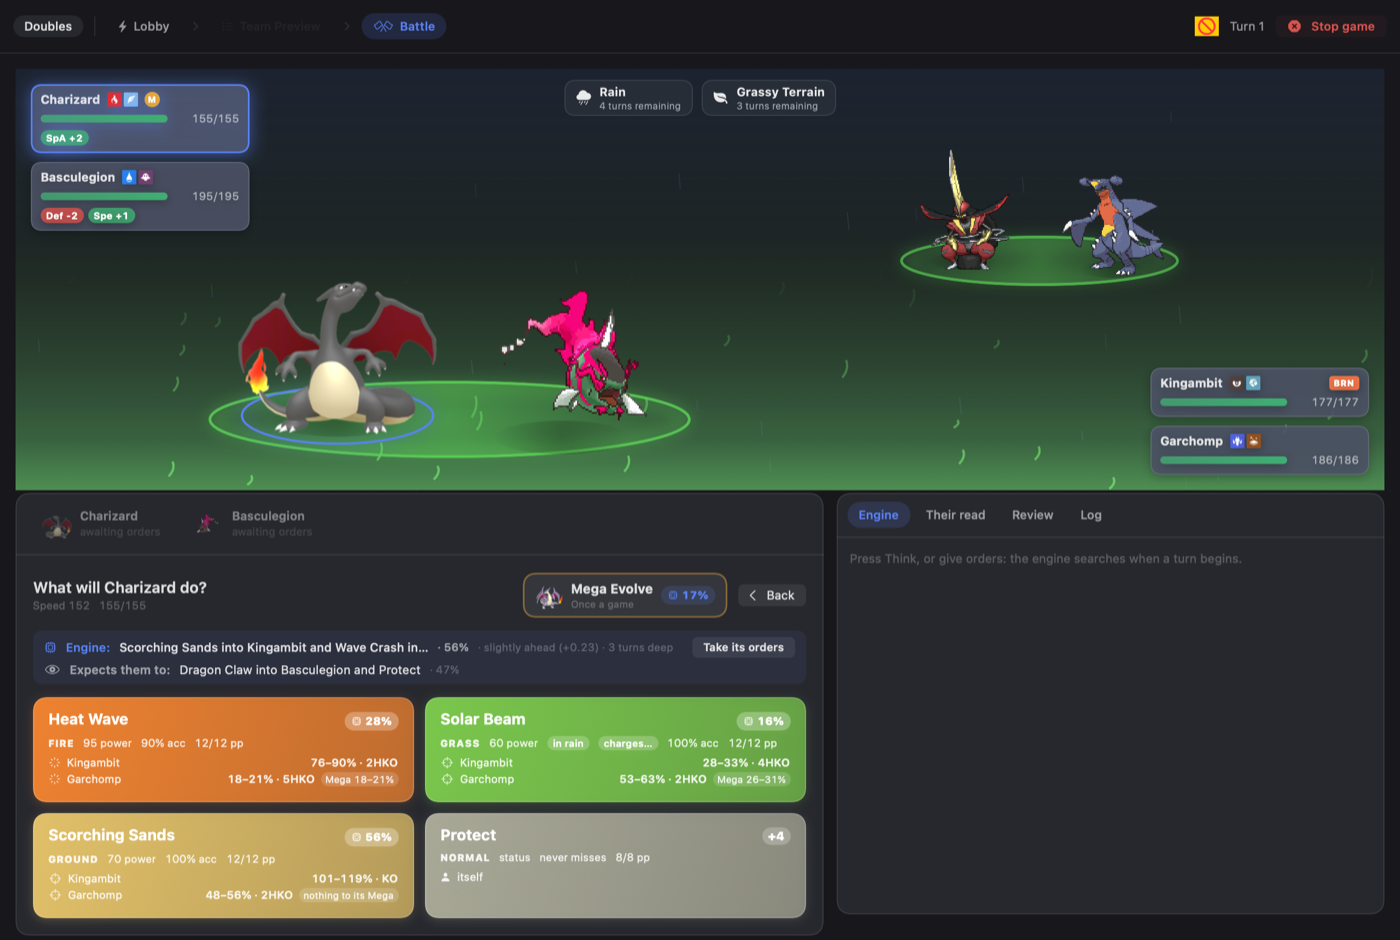
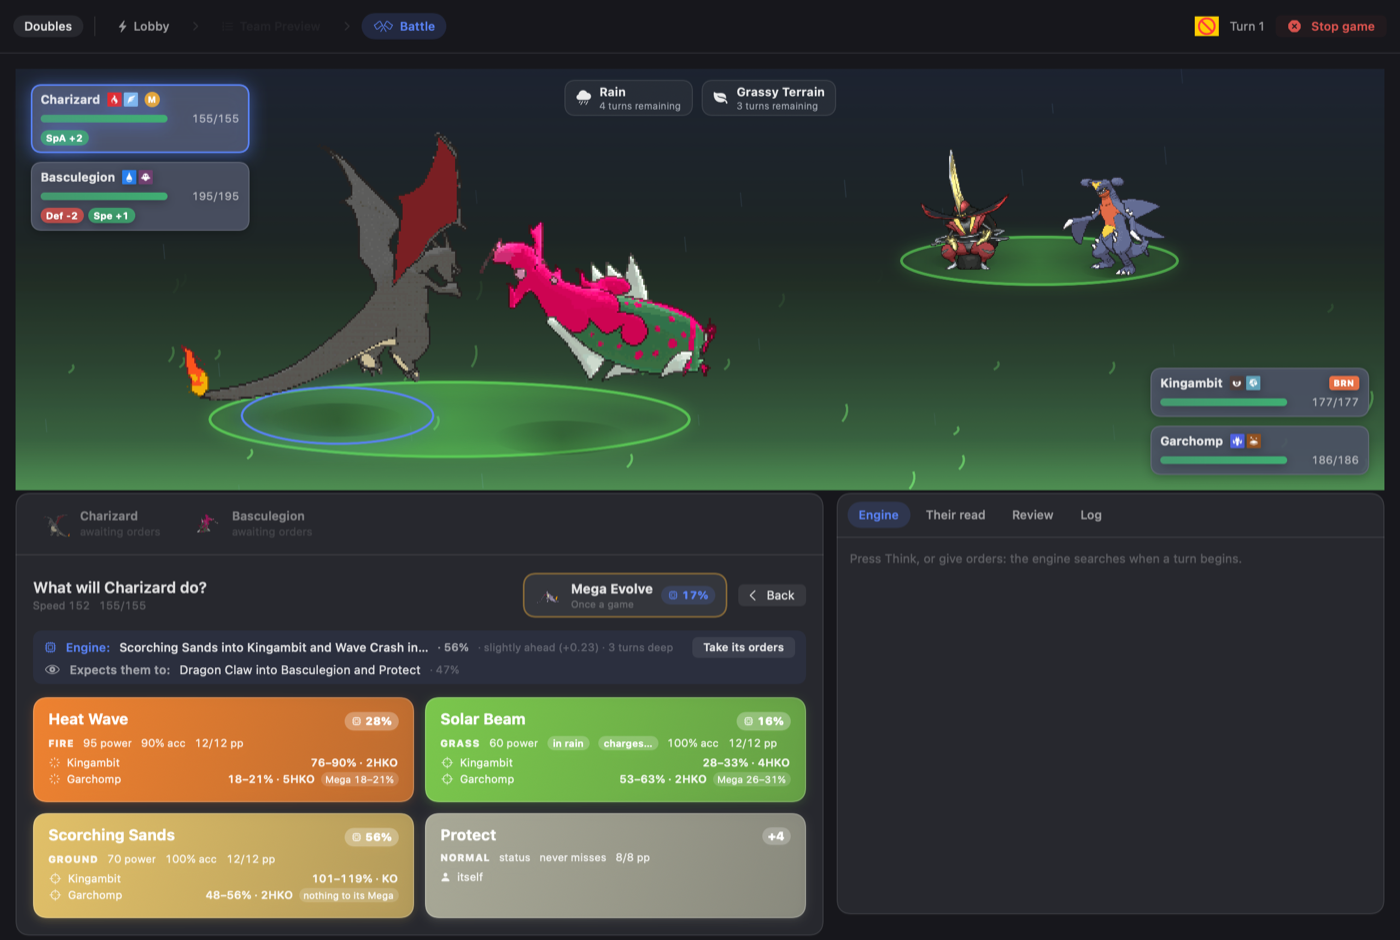
The Pokemon that faced the wrong way was the one nobody fetched
It was never a facing bug. A Pokemon of ours is drawn from its back
sprite, and where that sprite is not in memory the field falls back to
the app's own render -- which is a front view, mirrored so it faces the
opponent. That is what a Pokemon facing the wrong way is: the fallback,
seen without knowing it was one. The same picture is also why it was
still high-resolution art.

So why was it not in memory. Three reasons, found by printing what the
field asked for and what it got.

A shot renders once. `ImageRenderer` evaluates the view and keeps
whatever was there at that instant; there is no second pass when a fetch
lands, which is the whole difference between a screenshot and the app.
The app redraws and comes right on its own a moment later, and that is
why this only ever looked wrong in a picture.

The first of the two battle boards was never warmed -- the warm sat in
the block that draws the weather and the explainer, and the field, the
orders and the aim shots are drawn from a board set up sixty lines
earlier. It reported "sprites ready" the whole time, because it was
ready for the board it had been given.

And a Pokemon holding a stone is two Pokemon. Only the one it starts as
was asked for, so Mega Charizard Y was still fetching when it was drawn.
The app had the same gap: nothing pre-fetched what a stone-holder becomes
until it became it, so a Mega Evolution was drawn from the app's own art
until the sprite arrived.
[…]

diff --git a/Tools/snapshot/main.swift b/Tools/snapshot/main.swift
@@ -54,12 +54,61 @@ func render<V: View>(_ view: V, named name: String, size: CGSize, dark: Bool) {
 /// The first run pays for the lot. They are cached on disk after that, so
 /// every later run is the poll finding everything already there.
 @MainActor
+func warmSprites(on board: Board, style: PixelSprites.Style = .models) {
+    // Each of them with its own shiny flag, the way the battle screen warms
+    // them. Warming the plain ones and rendering a shiny is what leaves a
+    // Pokemon drawn from the app's own art in a field of sprites.
+    let pixels = PixelSprites.shared
+    let rules = Store.shared.rulebook
+    // What each of them might be standing there as, which for a Pokemon
+    // holding a stone is two things. A shot renders once and keeps whatever
+    // was in memory at that instant -- there is no second pass when a fetch
+    // lands -- so a Mega whose sprite was not asked for is a Mega drawn from
+    // the app's own art, facing the wrong way, in a field of sprites.
+    func wanted(_ f: Fighter) -> [(ChampionsLab.Form, Bool)] {
+        var out = [(f.build.form, f.build.shiny)]
+        if let mega = rules.megaForm(for: f.build.form, holding: f.build.item) {
+            out.append((mega, f.build.shiny))
+        }
+        return out
+    }
+    func missing() -> Int {
+        var short = 0
+        for f in board.mine {
+            for (form, shiny) in wanted(f) {
+                if pixels.frames(for: form, back: true, shiny: shiny, style: style) == nil { short += 1 }
+                if pixels.frames(for: form, back: false, shiny: shiny, style: style) == nil { short += 1 }
+            }
+        }
+        for f in board.theirs {
+            for (form, shiny) in wanted(f) {
+                if pixels.frames(for: form, back: false, shiny: shiny, style: style) == nil { short += 1 }
+            }
+        }
+        return short
+    }
+    var short = missing()
+    guard short > 0 else { print("  sprites ready"); return }
+    let deadline = Date().addingTimeInterval(90)
+    var quiet = 0
+    while short > 0, Date() < deadline {
+        RunLoop.main.run(until: Date().addingTimeInterval(0.2))
+        let now = missing()
+        quiet = now == short ? quiet + 1 : 0
+        if quiet > 60 { break }
+        short = now
+    }
+    print(short == 0 ? "  sprites ready" : "  sprites: \(short) drawn as the app's own art")
+}
+
+@MainActor
 func warmSprites(_ forms: [ChampionsLab.Form], backs: [ChampionsLab.Form] = [],
-                 style: PixelSprites.Style = .models, seconds: TimeInterval = 180) {
+                 style: PixelSprites.Style = .models, shiny: Bool = false,
+                 seconds: TimeInterval = 180) {
     let pixels = PixelSprites.shared
     func missing() -> Int {
-        forms.filter { pixels.frames(for: $0, back: false, style: style) == nil }.count
-            + backs.filter { pixels.frames(for: $0, back: true, style: style) == nil }.count
+        forms.filter { pixels.frames(for: $0, back: false, shiny: shiny, style: style) == nil }.count
+            + backs.filter { pixels.frames(for: $0, back: true, shiny: shiny, style: style) == nil }.count
     }
     var short = missing()                       // asks for every one of them
     guard short > 0 else { print("  sprites ready"); return }
@@ -294,6 +343,11 @@ let builderSeed = store.form(named: "Mega Baxcalibur")
         // broken — a card with an empty stat column wore a black sheet. Leave
         // it bare so the shot keeps checking it.
         board.theirs[1].status = .burn
+        // Before anything on this board is drawn. A shot renders once and
+        // keeps whatever was in memory at that instant, so a sprite still
+        // being fetched is a Pokemon drawn from the app's own art -- and for
+        // one of ours that art faces the wrong way.
+        warmSprites(on: board)
         // A real turn played out, so the log shows its reasons nested under
         // the thing they explain rather than as a column of equal boxes.
         let exchanged = TurnModel.resolve(
@@ -356,6 +410,15 @@ let builderSeed = store.form(named: "Mega Baxcalibur")
         render(BattleView(playing: board, showing: .fight, thinking: (thought, game.solve())),
                named: "battle-fight-dark",
                size: CGSize(width: 1280, height: 860), dark: true)
+        // The same field with a shiny on our side, which is the case that
+        // reads wrong when it falls back: the app's own render is a front
+        // view, so a Pokemon of ours drawn from it faces the wrong way.
+        var sparkly = board
+        if !sparkly.mine.isEmpty { sparkly.mine[0].build.shiny = true }
+        warmSprites(on: sparkly)
+        render(BattleView(playing: sparkly, showing: .fight, thinking: (thought, game.solve())),
+               named: "battle-shiny-dark",
+               size: CGSize(width: 1280, height: 860), dark: true)
         // And choosing where a move goes.
         render(BattleView(playing: board, showing: .aiming(move: 1), thinking: (thought, game.solve())),
                named: "battle-aim-dark",
@@ -370,8 +433,7 @@ let builderSeed = store.form(named: "Mega Baxcalibur")
         // The Pokemon as the app draws them, which means fetching them first:
         // a shot taken before they arrive falls back to the illustrations and
         // shows an app nobody is running.
-        warmSprites((board.mine + board.theirs).map(\.build.form),
-                    backs: board.mine.map(\.build.form))
+        warmSprites(on: board)
         var solver = TurnGame(board: board, believingTheirs: true)
         solver.width = 8
         let solution = solver.solve()

diff --git a/Sources/ChampionsLab/Screens/BattleFieldView.swift b/Sources/ChampionsLab/Screens/BattleFieldView.swift
@@ -92,7 +92,20 @@ struct BattleFieldView: View {
         .task(id: warmingKey) {
             guard let board else { return }
             let all = board.mine + board.theirs
-            pixels.warm(all.map(\.build.form), shiny: all.map(\.build.shiny), style: look)
+            // What each of them might be standing there as, which for a
+            // Pokemon holding a stone is two things. Warming only the one it
+            // starts as means the moment it Mega Evolves it is drawn from the
+            // app's own art until the fetch lands -- and for one of ours that
+            // art is a front view, so it faces the wrong way while it waits.
+            var forms = all.map(\.build.form)
+            var sparkle = all.map(\.build.shiny)
+            for fighter in all {
+                guard let mega = session.rules.megaForm(for: fighter.build.form,
+                                                       holding: fighter.build.item) else { continue }
+                forms.append(mega)
+                sparkle.append(fighter.build.shiny)
+            }
+            pixels.warm(forms, shiny: sparkle, style: look)
         }
     }
 

diff --git a/Sources/ChampionsLab/Screens/BattleScene.swift b/Sources/ChampionsLab/Screens/BattleScene.swift
@@ -435,7 +435,14 @@ extension BattleFieldView {
     /// on your side, and always in a still.
     @ViewBuilder func fighterSprite(_ form: Form, mine: Bool, side: CGFloat,
                                     shiny: Bool = false) -> some View {
-        if let frames = pixels.frames(for: form, back: mine, shiny: shiny, style: look) {
+        // The sprite for this side: ours seen from behind, theirs facing us.
+        // Where a back sprite has not arrived yet, Showdown's front is a far
+        // better stand-in than the app's own render -- and it is not
+        // mirrored, because mirroring a front view is exactly what makes a
+        // Pokemon of yours look like it is facing the wrong way.
+        let facing = pixels.frames(for: form, back: mine, shiny: shiny, style: look)
+            ?? (mine ? pixels.frames(for: form, back: false, shiny: shiny, style: look) : nil)
+        if let frames = facing {
             // At its own size, not squeezed into everybody's box. A Joltik is
             // small and a Staraptor has a wingspan, and the client draws them
             // that way.
